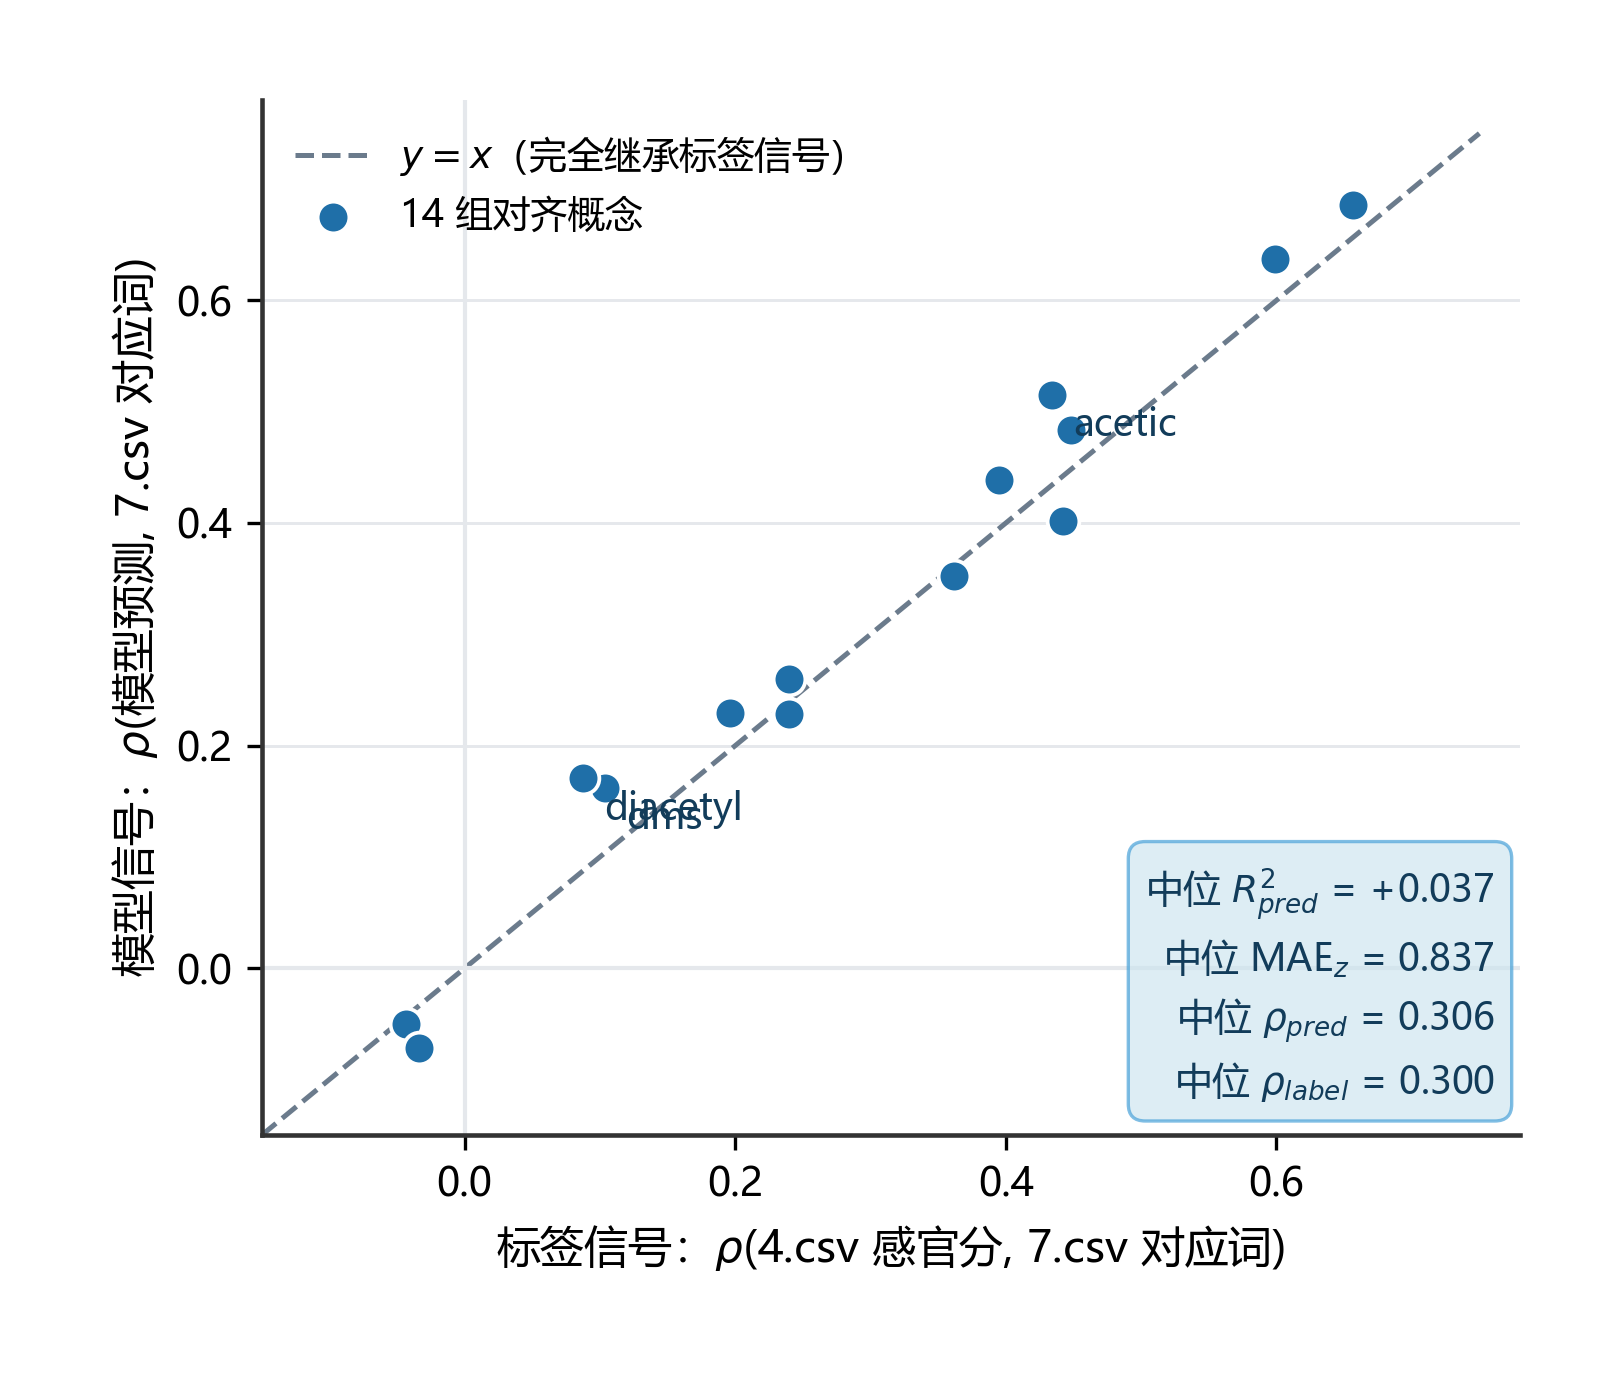
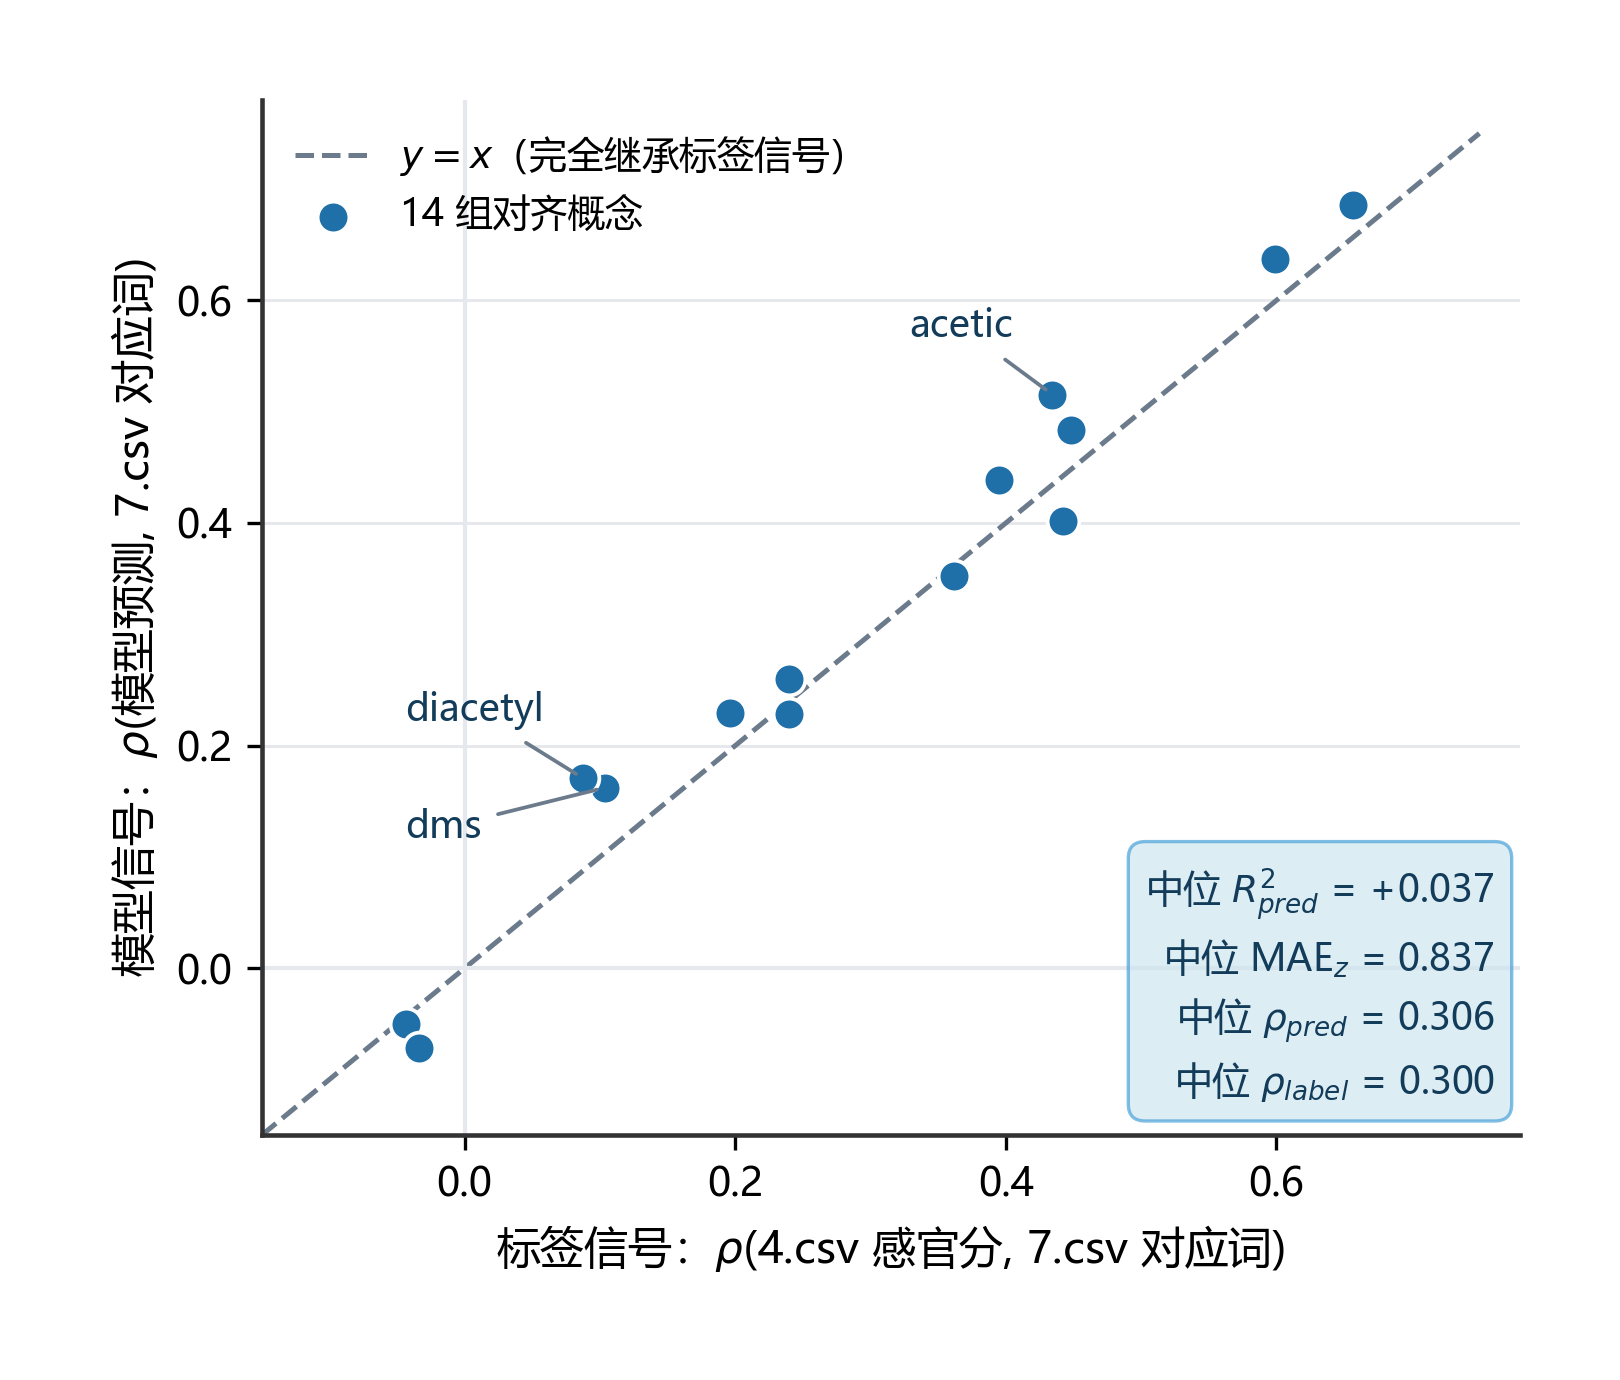
q1: 外部效度散点图的三点标签移出对角线，消除文字压线
标签原来固定 (5,-10) 偏移（右下），而 diacetyl / dms / acetic 三点都在
y=x 上方，右下正好朝参考线走——文字被虚线从中间穿过；diacetyl 与 dms
在屏幕上只隔 6 pt，固定偏移还让两个标签叠成一团（"diaacetyl"）。

改为沿对角线法向把标签放到点的外侧：点在对角线上方就放左上，下方放右下；
近邻点再沿对角线方向错开 26 pt，并加 0.9 pt 细引线指向原点，与
fig_q1_floor_vs_r2 的标注写法保持一致。

法向必须先在显示坐标里算：x、y 两轴量纲不同，数据坐标里的 45° 在屏幕上
并不是 45°，直接用数据坐标偏移会偏掉。

近邻点只能沿线错开、不能翻到对角线另一侧——dms 离线只有 15.6 pt，
翻过去标签正好落在线上（试过，反而更糟）。

重出 fig_q1_external 的 PNG 与 SVG（5.4x4.6 in / 300 dpi、坐标轴矩形、
配色、散点与统计框均未动；同一渲染环境下逐像素比对，改动只落在标签区域，
占 0.31% 像素）。

diff --git a/competitions/2026-mathorcup/code/figures.py b/competitions/2026-mathorcup/code/figures.py
@@ -147,6 +147,18 @@ def _style_ax(ax, ygrid=True, spines=True):
     ax.set_axisbelow(True)
 
 
+def _diag_dir(ax):
+    """y=x 这条对角线在屏幕坐标下的单位方向向量与单位法向。
+
+    x、y 两轴量纲不同，数据坐标里的 45° 在屏幕上并不是 45°，所以必须先把
+    两端点转到显示坐标再取方向；否则"垂直于对角线"的偏移会偏掉。
+    法向指向图区左上（即点在对角线上方时该走的方向）。
+    """
+    (x0, y0), (x1, y1) = ax.transData.transform([(0.0, 0.0), (1.0, 1.0)])
+    theta = np.arctan2(y1 - y0, x1 - x0)
+    return np.cos(theta), np.sin(theta), -np.sin(theta), np.cos(theta)
+
+
 def _pcolormesh(ax, M, x_labels, y_labels, cmap, cbar_label=None, vmin=None,
                 vmax=None, annotate=False, fmt='{:.2f}', annot_fontsize=7):
     """用 pcolormesh 画热力图。
@@ -363,16 +375,40 @@ def fig_q1_external():
     ax.axvline(0.0, color=COOL_GRID, linewidth=1.0)
     ax.scatter(e.rho_label7_vs_4, e.rho_pred_vs_7, s=58, color=C_BLUE, marker='o',
                edgecolor='white', linewidth=0.9, zorder=3, label=f'{len(e)} 组对齐概念')
-    # 只标偏离对角线最大的 3 点（全标会叠成一团）
-    dev = (e.rho_pred_vs_7 - e.rho_label7_vs_4).abs().sort_values(ascending=False)
-    for i in dev.index[:3]:
-        r = e.loc[i]
-        ax.annotate(r.sens_4csv, (r.rho_label7_vs_4, r.rho_pred_vs_7),
-                    xytext=(5, -10), textcoords='offset points', fontsize=9, color=C_DEEP)
-    ax.set_xlabel('标签信号：$\\rho$(4.csv 感官分, 7.csv 对应词)', fontsize=10.5)
-    ax.set_ylabel('模型信号：$\\rho$(模型预测, 7.csv 对应词)', fontsize=10.5)
+    # 只标偏离对角线最大的 3 点（全标会叠成一团）。先定坐标范围，后面按最终
+    # 比例算屏幕法向。
     ax.set_xlim(-0.15, 0.78)
     ax.set_ylim(-0.15, 0.78)
+    # 标签放在 y=x 的外侧并加引线。原来固定 (5,-10) 偏移（右下），而这三点都在
+    # 对角线上方，右下正好朝参考线走——文字被虚线从中间穿过；diacetyl 与 dms
+    # 在屏幕上只隔 6 pt，固定偏移还会让两个标签叠在一起。
+    dev = (e.rho_pred_vs_7 - e.rho_label7_vs_4).abs().sort_values(ascending=False)
+    ux, uy, nx, ny = _diag_dir(ax)            # 对角线方向 / 法向（法向指左上）
+    px_per_pt = fig.dpi / 72.0
+    seen = []
+    for i in dev.index[:3]:
+        r = e.loc[i]
+        p = ax.transData.transform((r.rho_label7_vs_4, r.rho_pred_vs_7))
+        # 与已标点的屏幕距离过近时，沿对角线方向错开，且朝远离那个点的一侧
+        # 走。不能翻到对角线另一侧：这两个点本就离线不远，翻过去标签正好压在
+        # 线上（dms 离线只有 15.6 pt）。
+        shift = 0.0
+        for q in seen:
+            if np.hypot(*(p - q)) < 14 * px_per_pt:
+                shift = -26.0 * (np.sign((p - q) @ np.array([ux, uy])) or 1.0)
+                break
+        seen.append(p)
+        above = 1.0 if r.rho_pred_vs_7 >= r.rho_label7_vs_4 else -1.0
+        ox = above * 15 * nx + shift * ux
+        oy = above * 15 * ny + shift * uy
+        ax.annotate(r.sens_4csv, (r.rho_label7_vs_4, r.rho_pred_vs_7),
+                    xytext=(ox, oy), textcoords='offset points',
+                    fontsize=9, color=C_DEEP,
+                    ha='right' if ox < 0 else 'left',
+                    va='bottom' if oy > 0 else 'top',
+                    arrowprops=dict(arrowstyle='-', color=C_GRAY, lw=0.9))
+    ax.set_xlabel('标签信号：$\\rho$(4.csv 感官分, 7.csv 对应词)', fontsize=10.5)
+    ax.set_ylabel('模型信号：$\\rho$(模型预测, 7.csv 对应词)', fontsize=10.5)
     ax.tick_params(labelsize=9.5)
     ax.legend(loc='upper left', fontsize=9)
     txt = (f'中位 $R^2_{{pred}}$ = {log["ext_median_r2_pred_vs_7"]:+.3f}\n'
